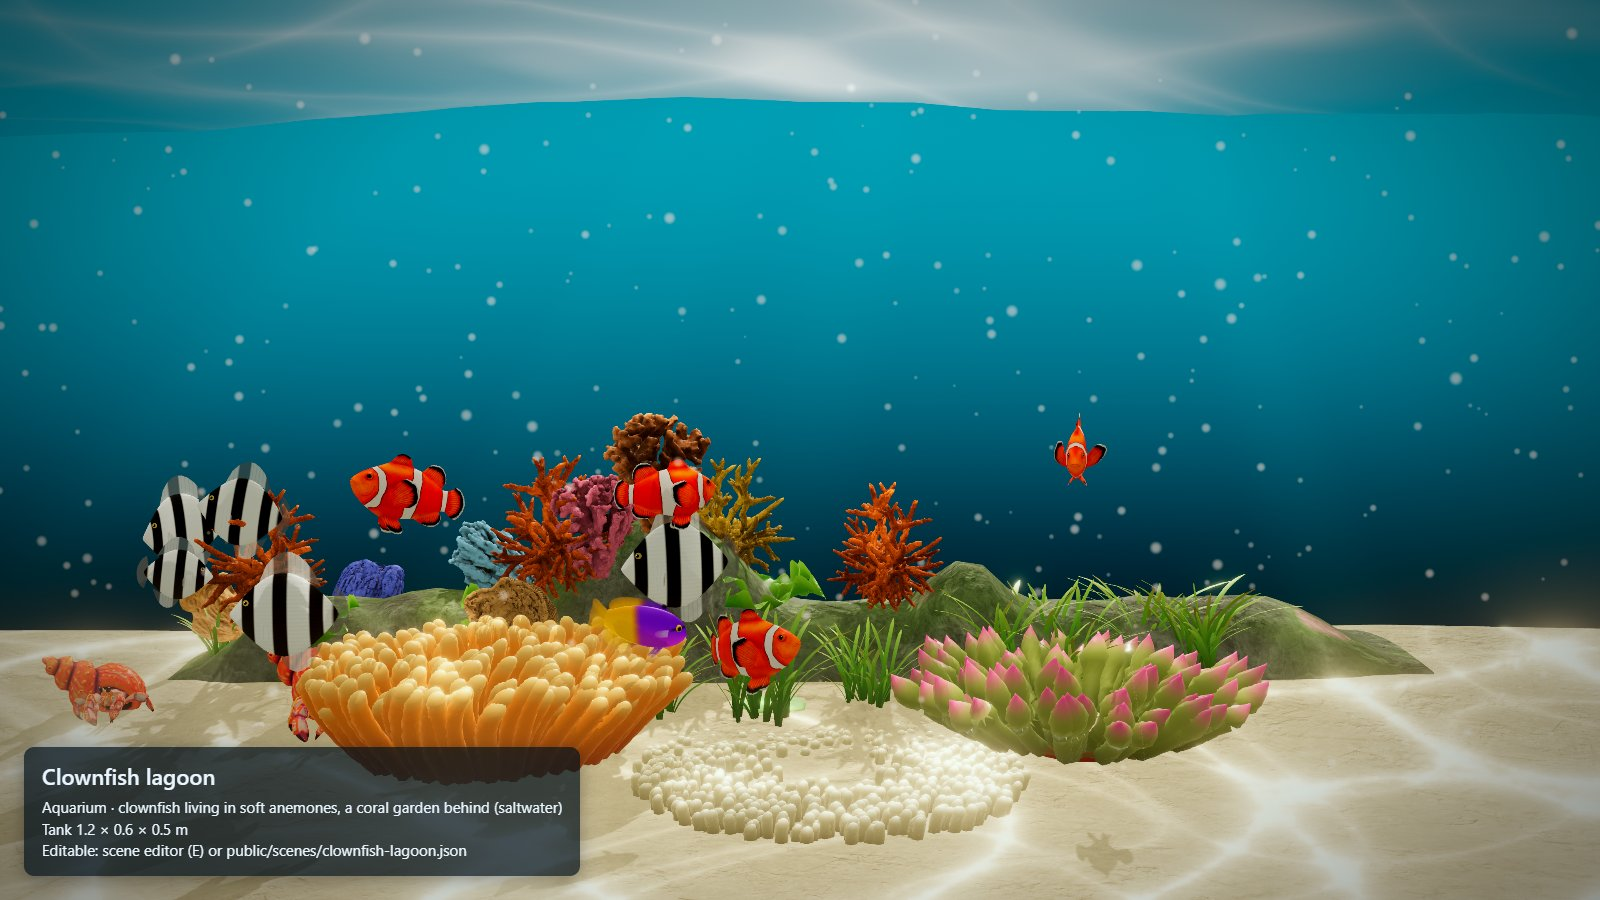
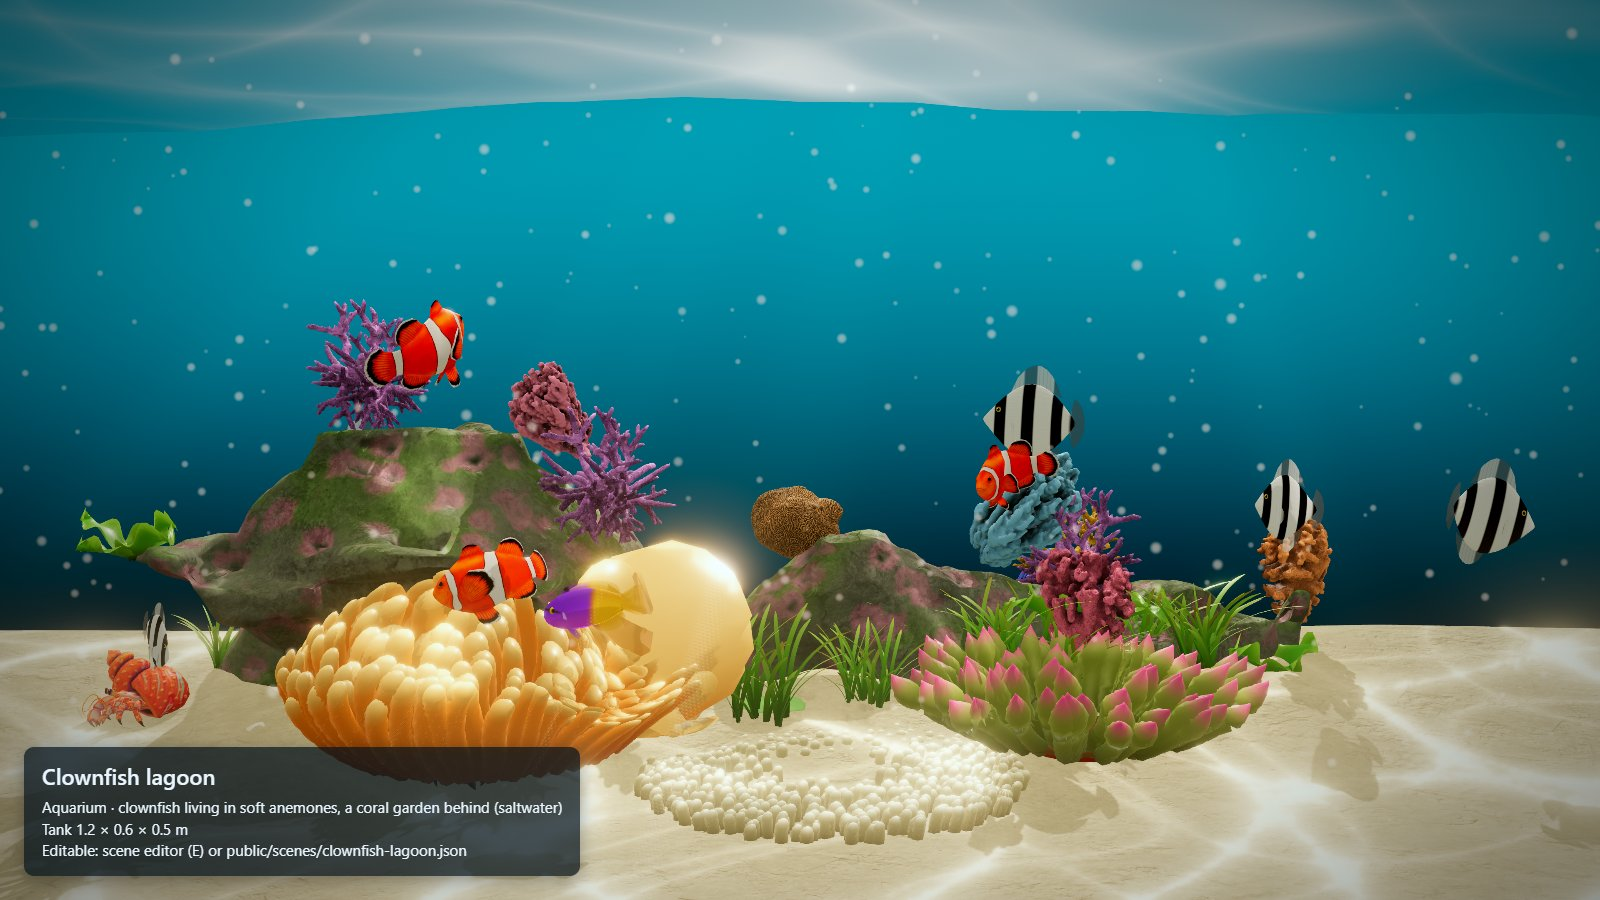
feat(scenes): live rock aquascapes for the Home reef and the lagoon (L1)
scripts/aquascape.py carves a scene's block rock from a layout of
mounds, arches, ledges and caves. The Home reef gets two islands of
porous live rock, an arch with a cave under it and a ledge over the
sand; the Clownfish lagoon a low bank at the back with a small arch and
a ledge for the coral garden. Their ridges are gone, the corals stand on
the blocks, the rock is greyer, with less coralline. Pictures,
baselines, both guides; the README lists the lagoon and the Home reef's
real measures.

diff --git a/scripts/aquascape.py b/scripts/aquascape.py
@@ -1,0 +1,172 @@
+"""Builds the live rock of the home reef tanks out of blocks.
+
+A reef tank's rock is an aquascape: a few islands of stacked live rock
+with arches to swim through, ledges that stick out over the sand, caves
+underneath, and open sand between them. The scenes' rock is blocks, like
+the scene editor's (scene/blocks); this script carves each scene's layout
+into its `blocks`, keeping its colour, growth and pores, so the layout can
+be changed here and regenerated instead of drawn by hand:
+
+    python scripts/aquascape.py public/scenes/home-reef.json
+    pnpm exec prettier --write public/scenes/home-reef.json
+
+Coordinates are m: x across (0 in the middle), y up from the floor, z from
+the glass (0) to the back (-depth).
+"""
+
+import json
+import math
+import os
+import sys
+
+# A smooth, repeatable wobble in about -1.8..1.8 from three sines.
+def noise(a, b, c):
+    value = 0.0
+    for octave, frequency in enumerate((1.0, 2.3, 5.1)):
+        value += (
+            math.sin(a * frequency * 1.7 + octave * 1.3 + b * frequency * 2.1)
+            * math.cos(b * frequency * 1.3 - c * frequency * 1.9 + octave)
+            / (octave + 1)
+        )
+    return value
+
+
+def lumpy(x, y, z, seed, scale):
+    """Rock is never smooth: a share by which a shape's edge moves in or out."""
+    return 0.22 * noise(x * scale, y * scale, z * scale + seed) + 0.08 * noise(
+        x * scale * 3, z * scale * 3, y * scale * 3 + seed
+    )
+
+
+def mound(shape, x, y, z):
+    """A heap of stacked rock: wide at the foot, rounded on top."""
+    dx, dz = (x - shape["x"]) / shape["across"], (z - shape["z"]) / shape["along"]
+    reach = 1 + lumpy(x, y, z, shape["seed"], 6)
+    top = shape["height"] * (1 + 0.25 * noise(x * 5, z * 5, shape["seed"]))
+    return y < top and dx * dx + dz * dz + (y / top) ** 2 < reach * reach
+
+
+def arch(shape, x, y, z):
+    """A bridge of rock from one foot to the other, high enough to swim under."""
+    (x0, z0), (x1, z1) = shape["from"], shape["to"]
+    span = math.hypot(x1 - x0, z1 - z0)
+    along = ((x - x0) * (x1 - x0) + (z - z0) * (z1 - z0)) / (span * span)
+    if not 0 <= along <= 1:
+        return False
+    side = abs((x - x0) * (z1 - z0) - (z - z0) * (x1 - x0)) / span
+    crest = shape["height"] * math.sin(math.pi * along)
+    thick = shape["thickness"] * (1 + lumpy(x, y, z, shape["seed"], 7))
+    # The bridge is a band around its curve, wider at its feet.
+    feet = 1 + 1.5 * (1 - math.sin(math.pi * along)) ** 4
+    return abs(y - crest) < thick * feet and side < shape["width"] * (1 + 0.5 * (feet - 1))
+
+
+def ledge(shape, x, y, z):
+    """A flat slab sticking out, its top where corals sit and fish shelter below."""
+    dx, dz = (x - shape["x"]) / shape["across"], (z - shape["z"]) / shape["along"]
+    reach = 1 + lumpy(x, y, z, shape["seed"], 5)
+    low = shape["y"] + 0.02 * noise(x * 9, z * 9, shape["seed"])
+    return low < y < low + shape["thickness"] and dx * dx + dz * dz < reach * reach
+
+
+def cave(shape, x, y, z):
+    """A hollow carved out of the rock, open towards the glass."""
+    dx = (x - shape["x"]) / shape["across"]
+    dy = (y - shape["y"]) / shape["up"]
+    dz = (z - shape["z"]) / shape["along"]
+    return dx * dx + dy * dy + dz * dz < (1 + 0.5 * lumpy(x, y, z, shape["seed"], 8)) ** 2
+
+
+SOLID = {"mound": mound, "arch": arch, "ledge": ledge}
+
+# Each scene's layout: solid shapes, then caves carved out of them.
+LAYOUTS = {
+    "home-reef": {
+        "size": 0.05,
+        "shapes": [
+            # The left island, the larger one, with a cave at its foot.
+            {"kind": "mound", "x": -0.62, "z": -0.6, "across": 0.48, "along": 0.3, "height": 0.52, "seed": 1.0},
+            {"kind": "mound", "x": -0.3, "z": -0.72, "across": 0.3, "along": 0.22, "height": 0.66, "seed": 2.0},
+            {"kind": "mound", "x": -0.95, "z": -0.45, "across": 0.24, "along": 0.2, "height": 0.3, "seed": 3.0},
+            # An arch from the left island over open sand, to swim through.
+            {"kind": "arch", "from": (-0.15, -0.62), "to": (0.32, -0.7), "height": 0.42,
+             "thickness": 0.07, "width": 0.11, "seed": 4.0},
+            # The right island, lower, with a ledge out over the sand.
+            {"kind": "mound", "x": 0.62, "z": -0.66, "across": 0.36, "along": 0.26, "height": 0.42, "seed": 5.0},
+            {"kind": "mound", "x": 0.86, "z": -0.5, "across": 0.2, "along": 0.18, "height": 0.24, "seed": 6.0},
+            {"kind": "ledge", "x": 0.44, "z": -0.42, "across": 0.28, "along": 0.17, "y": 0.26,
+             "thickness": 0.07, "seed": 7.0},
+            # A low stone in front of the left island.
+            {"kind": "mound", "x": -0.5, "z": -0.26, "across": 0.14, "along": 0.1, "height": 0.1, "seed": 8.0},
+        ],
+        "caves": [
+            {"x": -0.55, "y": 0.1, "z": -0.38, "across": 0.16, "up": 0.11, "along": 0.2, "seed": 9.0},
+            {"x": 0.62, "y": 0.08, "z": -0.46, "across": 0.12, "up": 0.09, "along": 0.16, "seed": 10.0},
+        ],
+    },
+    "clownfish-lagoon": {
+        "size": 0.05,
+        "shapes": [
+            # A low bank along the back, higher on the left.
+            {"kind": "mound", "x": -0.3, "z": -0.38, "across": 0.3, "along": 0.12, "height": 0.26, "seed": 1.0},
+            {"kind": "mound", "x": 0.28, "z": -0.4, "across": 0.24, "along": 0.1, "height": 0.18, "seed": 2.0},
+            # A small arch between them.
+            {"kind": "arch", "from": (-0.06, -0.38), "to": (0.14, -0.4), "height": 0.17,
+             "thickness": 0.045, "width": 0.06, "seed": 3.0},
+            # A ledge on the left, the coral garden's top shelf.
+            {"kind": "ledge", "x": -0.42, "z": -0.26, "across": 0.15, "along": 0.08, "y": 0.13,
+             "thickness": 0.05, "seed": 4.0},
+        ],
+        "caves": [
+            {"x": -0.3, "y": 0.06, "z": -0.28, "across": 0.08, "up": 0.06, "along": 0.08, "seed": 5.0},
+        ],
+    },
+}
+
+
+def runs_of(cells):
+    """Lengths of alternating empty and solid stretches, the first one empty."""
+    runs, current, count = [], 0, 0
+    for cell in cells:
+        if cell == current:
+            count += 1
+        else:
+            runs.append(count)
+            current, count = cell, 1
+    runs.append(count)
+    return runs
+
+
+def main():
+    path = sys.argv[1]
+    with open(path, encoding="utf8") as file:
+        scene = json.load(file)
+    layout = LAYOUTS[os.path.splitext(os.path.basename(path))[0]]
+    size = layout["size"]
+    width, height, depth = (scene["tank"][key] for key in ("width", "height", "depth"))
+    columns, layers, rows = (math.ceil(length / size - 1e-6) for length in (width, height, depth))
+    cells = []
+    # Across first, then from the back wall to the glass, then layer by layer up.
+    for layer in range(layers):
+        y = (layer + 0.5) * size
+        for row in range(rows):
+            z = -depth + (row + 0.5) * size
+            for column in range(columns):
+                x = -width / 2 + (column + 0.5) * size
+                solid = any(SOLID[shape["kind"]](shape, x, y, z) for shape in layout["shapes"]) and not any(
+                    cave(hollow, x, y, z) for hollow in layout["caves"]
+                )
+                cells.append(1 if solid else 0)
+    old = scene.get("blocks", {})
+    blocks = {"size": size, "runs": runs_of(cells)}
+    for key in ("color", "material", "growth", "pores"):
+        if key in old:
+            blocks[key] = old[key]
+    blocks.setdefault("color", "#6f7468")
+    scene["blocks"] = blocks
+    with open(path, "w", encoding="utf8", newline="\n") as file:
+        json.dump(scene, file, indent=2, ensure_ascii=False)
+    print(f"{sum(cells)} solid blocks of {len(cells)}")
+
+
+main()

diff --git a/README.md b/README.md
@@ -102,15 +102,16 @@ Seven scenes come with Aquaria. They are examples: open any of them in the
 editor (`E`), change it and save it as your own. The panel (`H`) switches
 scene and look.
 
-| Scene                         | What it is                                         | Tank (w × h × d) |
-| ----------------------------- | -------------------------------------------------- | ---------------- |
-| Hero (`hero`, default)        | Open water: reef pillars, corals, kelp and schools | 6 × 3.2 × 3.2 m  |
-| Aquaria (`aquaria`)           | A show tank, sea and fresh water mixed for the fun | 6 × 3.2 × 3.2 m  |
-| Nano reef (`nano-reef`)       | A small reef with an anemone; phones open this one | 1 × 0.75 × 0.7 m |
-| Tropical reef (`reef`)        | Shallow open sea: live rock, corals and seagrass   | 5.4 × 3 × 4 m    |
-| Home reef (`home-reef`)       | A marine reef aquarium                             | 6 × 2.6 × 2.4 m  |
-| Planted tank (`planted-tank`) | A freshwater tank with plants, shrimps and a crab  | 2.4 × 1.1 × 1 m  |
-| Iwagumi (`iwagumi`)           | A freshwater aquascape of stones and carpet plants | 2.2 × 1.1 × 1 m  |
+| Scene                                 | What it is                                         | Tank (w × h × d)  |
+| ------------------------------------- | -------------------------------------------------- | ----------------- |
+| Hero (`hero`, default)                | Open water: reef pillars, corals, kelp and schools | 6 × 3.2 × 3.2 m   |
+| Aquaria (`aquaria`)                   | A show tank, sea and fresh water mixed for the fun | 6 × 3.2 × 3.2 m   |
+| Nano reef (`nano-reef`)               | A small reef with an anemone; phones open this one | 1 × 0.75 × 0.7 m  |
+| Tropical reef (`reef`)                | Shallow open sea: live rock, corals and seagrass   | 5.4 × 3 × 4 m     |
+| Clownfish lagoon (`clownfish-lagoon`) | Clownfish in soft anemones, a coral garden behind  | 1.2 × 0.6 × 0.5 m |
+| Home reef (`home-reef`)               | A reef tank: two islands of live rock, an arch     | 2.4 × 1.1 × 1 m   |
+| Planted tank (`planted-tank`)         | A freshwater tank with plants, shrimps and a crab  | 2.4 × 1.1 × 1 m   |
+| Iwagumi (`iwagumi`)                   | A freshwater aquascape of stones and carpet plants | 2.2 × 1.1 × 1 m   |
 
 ## On a wall
 

diff --git a/docs/SCRIVERE_SCENE.md b/docs/SCRIVERE_SCENE.md
@@ -237,7 +237,19 @@ Aquaria suddivide i triangoli della roccia quante volte servono agli
 alveoli, al massimo tre, quindi i blocchi grandi costano di più.
 
 Le colonne della scena Hero le genera `scripts/hero_pillars.py`: cambia lì
-le colonne e rilancialo su `public/scenes/hero.json`.
+le colonne e rilancialo su `public/scenes/hero.json`. La roccia viva della
+Home reef e della Clownfish lagoon viene da `scripts/aquascape.py`: cumuli
+di rocce impilate, archi da attraversare a nuoto, sporgenze sopra la
+sabbia e grotte scavate sotto, un layout per scena:
+
+```bash
+python scripts/aquascape.py public/scenes/home-reef.json
+pnpm exec prettier --write public/scenes/home-reef.json
+```
+
+Coralli e anemoni con `"on": "rockwork"` poggiano sulla roccia dove chi
+guarda ne vede la superficie, i blocchi levigati, non sugli spigoli dei
+blocchi.
 
 ### Le luci
 

diff --git a/docs/SCENES.md b/docs/SCENES.md
@@ -228,7 +228,19 @@ Aquaria splits the rock's triangles as many times as the pits need, at
 most three times, so large blocks cost more.
 
 The Hero scene's pillars are generated by `scripts/hero_pillars.py`: change
-the pillars there and run it again on `public/scenes/hero.json`.
+the pillars there and run it again on `public/scenes/hero.json`. The live
+rock of the Home reef and of the Clownfish lagoon comes from
+`scripts/aquascape.py`: mounds of stacked rock, arches to swim through,
+ledges over the sand and caves carved underneath, one layout per scene:
+
+```bash
+python scripts/aquascape.py public/scenes/home-reef.json
+pnpm exec prettier --write public/scenes/home-reef.json
+```
+
+Corals and anemones with `"on": "rockwork"` stand on the rock where the
+viewer sees its surface, the blocks smoothed, not on the corners of the
+blocks.
 
 ### Lights
 

diff --git a/docs/ROADMAP.md b/docs/ROADMAP.md
@@ -617,8 +617,11 @@ support for corals on top).
 - [x] Coralline algae and encrusting growth that follow the rock's
       hollows and edges, not round patches: the pits' rims (`aCavity`
       in the growth shader).
-- [ ] The Home reef and the Clownfish lagoon rebuilt with block rock in
-      the editor: arches, ledges and caves, corals on top.
+- [x] The Home reef and the Clownfish lagoon rebuilt with block rock:
+      arches, ledges and caves, corals on top (`scripts/aquascape.py`,
+      one layout per scene). Corals stand on the smoothed surface
+      (`surfaceAt` in `sim/blockwork.ts`), not on the blocks' corners.
+      Wide plate corals still overhang narrow crests.
 
 ### L2. Coral cover
 
